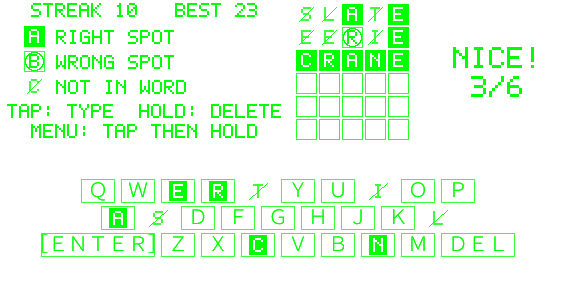
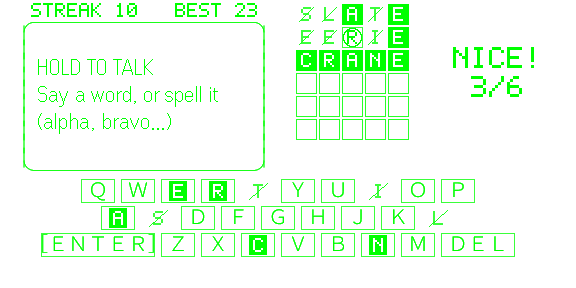
0.3.0: store screenshots and listing text for voice
Help and the play shots are taken in the simulator (Help is firmware
text with marks the pixel font lacks); new shots for listening, the
choice list and the ENTER / DEL / CLEAR controls, played through the
fake mic. The listing text covers talking and the microphone.

Changed region(s): [[0.0, 0.0625, 0.5, 0.5938]]

diff --git a/scripts/listing-sim.ts b/scripts/listing-sim.ts
@@ -3,9 +3,12 @@
  * the simulator (or the glasses) draws. Each shot starts the app on a fixed round (`?demo=`, see src/demo.ts),
  * optionally sends gestures, and saves the glasses screenshot (green on transparent, 576×288, like the
  * code-rendered help and stats shots from listing-shots.ts).
+ *
+ * Voice shots play a recorded word through `?fakemic=` (src/voice/fakemic.ts). The clip is made with macOS
+ * `say` into previews/ (not committed) and needs the speech model (npm run voice-model).
  *   npx tsx scripts/listing-sim.ts
  */
-import { spawn, type ChildProcess } from 'node:child_process'
+import { execFileSync, spawn, type ChildProcess } from 'node:child_process'
 import { existsSync, mkdirSync, writeFileSync } from 'node:fs'
 import { createRequire } from 'node:module'
 import { dirname, join } from 'node:path'
@@ -14,7 +17,7 @@ const OUT = 'docs/screenshots'
 const PORT = 5173
 const API = 'http://127.0.0.1:9898/api'
 
-type Input = 'up' | 'down' | 'click'
+type Input = 'up' | 'down' | 'click' | 'long_press' | 'long_press_release' | 'context_menu'
 interface Shot {
   name: string
   /** target:guesses (dot-separated):typed */
@@ -22,16 +25,30 @@ interface Shot {
   focus: string
   /** Gestures after start, e.g. a click on ENTER to show the win or loss message. */
   inputs?: Input[]
+  /** Extra URL parameters, e.g. keys=controls. */
+  params?: string
+  /** Plays VOICE_CLIP through the fake mic; waits for the speech model before the gestures. */
+  voice?: boolean
+  /** Wait after the last gesture (default 2000 ms). */
+  settleMs?: number
 }
+
+const VOICE_CLIP = 'previews/audio/listing-crane.wav'
 
 const SHOTS: Shot[] = [
   { name: '01-playing', demo: 'crane:slate.eerie:cra', focus: 'N' },
   { name: '02-win', demo: 'crane:slate.eerie:crane', focus: 'ENTER', inputs: ['click'] },
   { name: '03-not-in-list', demo: 'crane:slate:xxxxx', focus: 'ENTER', inputs: ['click'] },
+  // Help, opened from the OS menu: Enter guess, Backspace, Hold to delete, Enter and Del only, Help.
+  { name: '04-help', demo: 'crane:slate:', focus: 'Q', inputs: ['context_menu', 'down', 'down', 'down', 'down', 'click'] },
   { name: '06-mid-guess', demo: 'crane:slate:mo', focus: 'U' },
   { name: '07-mid-guess-late', demo: 'crane:slate.mourn.eerie:cr', focus: 'A' },
   { name: '08-winner', demo: 'crane:slate.mourn.eerie:crane', focus: 'ENTER', inputs: ['click'] },
   { name: '09-loser', demo: 'abbey:slate.crane.mourn.ghoul.fizzy:wacky', focus: 'ENTER', inputs: ['click'] },
+  { name: '10-voice-listening', demo: 'crane:slate.mourn:', focus: 'Q', voice: true, inputs: ['long_press'], settleMs: 700 },
+  { name: '11-voice-choices', demo: 'crane:slate.mourn:', focus: 'Q', voice: true, inputs: ['long_press', 'long_press_release'], settleMs: 3000 },
+  { name: '12-controls', demo: 'crane:slate.mourn:', focus: 'Q', params: 'keys=controls' },
+  { name: '13-controls-choices', demo: 'crane:slate.mourn:', focus: 'Q', params: 'keys=controls', voice: true, inputs: ['long_press', 'long_press_release'], settleMs: 3000 },
 ]
 
 const sleep = (ms: number) => new Promise((r) => setTimeout(r, ms))
@@ -59,17 +76,37 @@ function simBinary(): string {
 }
 
 mkdirSync(OUT, { recursive: true })
+if (SHOTS.some((s) => s.voice) && !existsSync(VOICE_CLIP)) {
+  mkdirSync(dirname(VOICE_CLIP), { recursive: true })
+  execFileSync('say', ['-v', 'Samantha', '-o', VOICE_CLIP, '--data-format=LEI16@16000', 'crane'])
+}
+
+/** Wait until the page logs that the speech model is loaded (and warmed). */
+async function voiceReady(): Promise<void> {
+  for (let i = 0; i < 120; i++) {
+    const log = await (await fetch(`${API}/console`)).text()
+    if (log.includes('voice model ready')) return
+    if (log.includes('voice model failed')) throw new Error('speech model failed to load: run npm run voice-model')
+    await sleep(500)
+  }
+  throw new Error('timed out waiting for the speech model')
+}
 procs.push(spawn(process.execPath, [join('node_modules', 'vite', 'bin', 'vite.js'), '--port', String(PORT), '--strictPort'], { stdio: 'ignore' }))
 await waitFor(`http://localhost:${PORT}/`)
 
 for (const shot of SHOTS) {
-  const url = `http://localhost:${PORT}/?demo=${shot.demo}&focus=${shot.focus}`
+  const extra = [shot.params, shot.voice ? `fakemic=/${VOICE_CLIP}` : ''].filter(Boolean).join('&')
+  const url = `http://localhost:${PORT}/?demo=${shot.demo}&focus=${shot.focus}${extra ? `&${extra}` : ''}`
   const sim = spawn(simBinary(), [url, '--automation-port', '9898', '--no-glow'], { stdio: 'ignore' })
   await waitFor(`${API}/ping`)
   await sleep(4000)
-  for (const action of shot.inputs ?? []) {
+  if (shot.voice) await voiceReady()
+  const inputs = shot.inputs ?? []
+  for (const [i, action] of inputs.entries()) {
     await fetch(`${API}/input`, { method: 'POST', headers: { 'Content-Type': 'application/json' }, body: JSON.stringify({ action }) })
-    await sleep(2000)
+    // A hold lasts long enough for the fake mic to play the clip before the release.
+    const between = action === 'long_press' ? 1200 : action === 'down' ? 400 : action === 'context_menu' ? 1000 : 2000
+    await sleep(i === inputs.length - 1 ? (shot.settleMs ?? 2000) : between)
   }
   const png = new Uint8Array(await (await fetch(`${API}/screenshot/glasses`)).arrayBuffer())
   writeFileSync(join(OUT, `${shot.name}.png`), png)

diff --git a/scripts/listing-shots.ts b/scripts/listing-shots.ts
@@ -1,18 +1,16 @@
 /**
- * Store-listing Help and Stats frames, rendered with the same code the glasses use (firmware text drawn in
- * the pixel font so the shot is readable). The play shots come from the simulator, because the keyboard's
- * letters are firmware text: scripts/listing-sim.ts.
+ * Store-listing Stats frame, rendered with the same code the glasses use (firmware text drawn in the pixel
+ * font so the shot is readable). The play and Help shots come from the simulator, because their text
+ * (keyboard letters, the voice card, the Help text with ● ○ ・) is firmware text: scripts/listing-sim.ts.
  *   npx tsx scripts/listing-shots.ts
  */
 import { mkdirSync, writeFileSync } from 'node:fs'
-import { DEFAULT_SETTINGS } from '../src/config'
 import { DEMO_HISTORY } from '../src/demo'
 import { renderDistribution } from '../src/render/chart'
 import { Framebuffer } from '../src/render/framebuffer'
-import { renderHelp } from '../src/render/help'
 import { IMAGE_H, IMAGE_W } from '../src/render/layout'
 import { encodeDisplayPng } from '../src/render/png'
-import { helpText, statsText } from '../src/pages'
+import { statsText } from '../src/pages'
 
 const OUT = 'docs/screenshots'
 const SCALE = 1
@@ -57,12 +55,6 @@ function drawLines(fb: Framebuffer, text: string, x: number, y: number, maxW: nu
 }
 
 const shots: Array<[string, Framebuffer]> = []
-
-const help = new Framebuffer(576, 288)
-blit(help, renderHelp(), (576 - IMAGE_W) / 2, 0)
-// The pixel font has no comma; the firmware text on the glasses does.
-drawLines(help, helpText(DEFAULT_SETTINGS).toUpperCase().replaceAll(',', ''), 16, IMAGE_H + 20, 544)
-shots.push(['04-help', help])
 
 const stats = new Framebuffer(576, 288)
 drawLines(stats, statsText(DEMO_HISTORY), 16, 20, IMAGE_W - 28)
